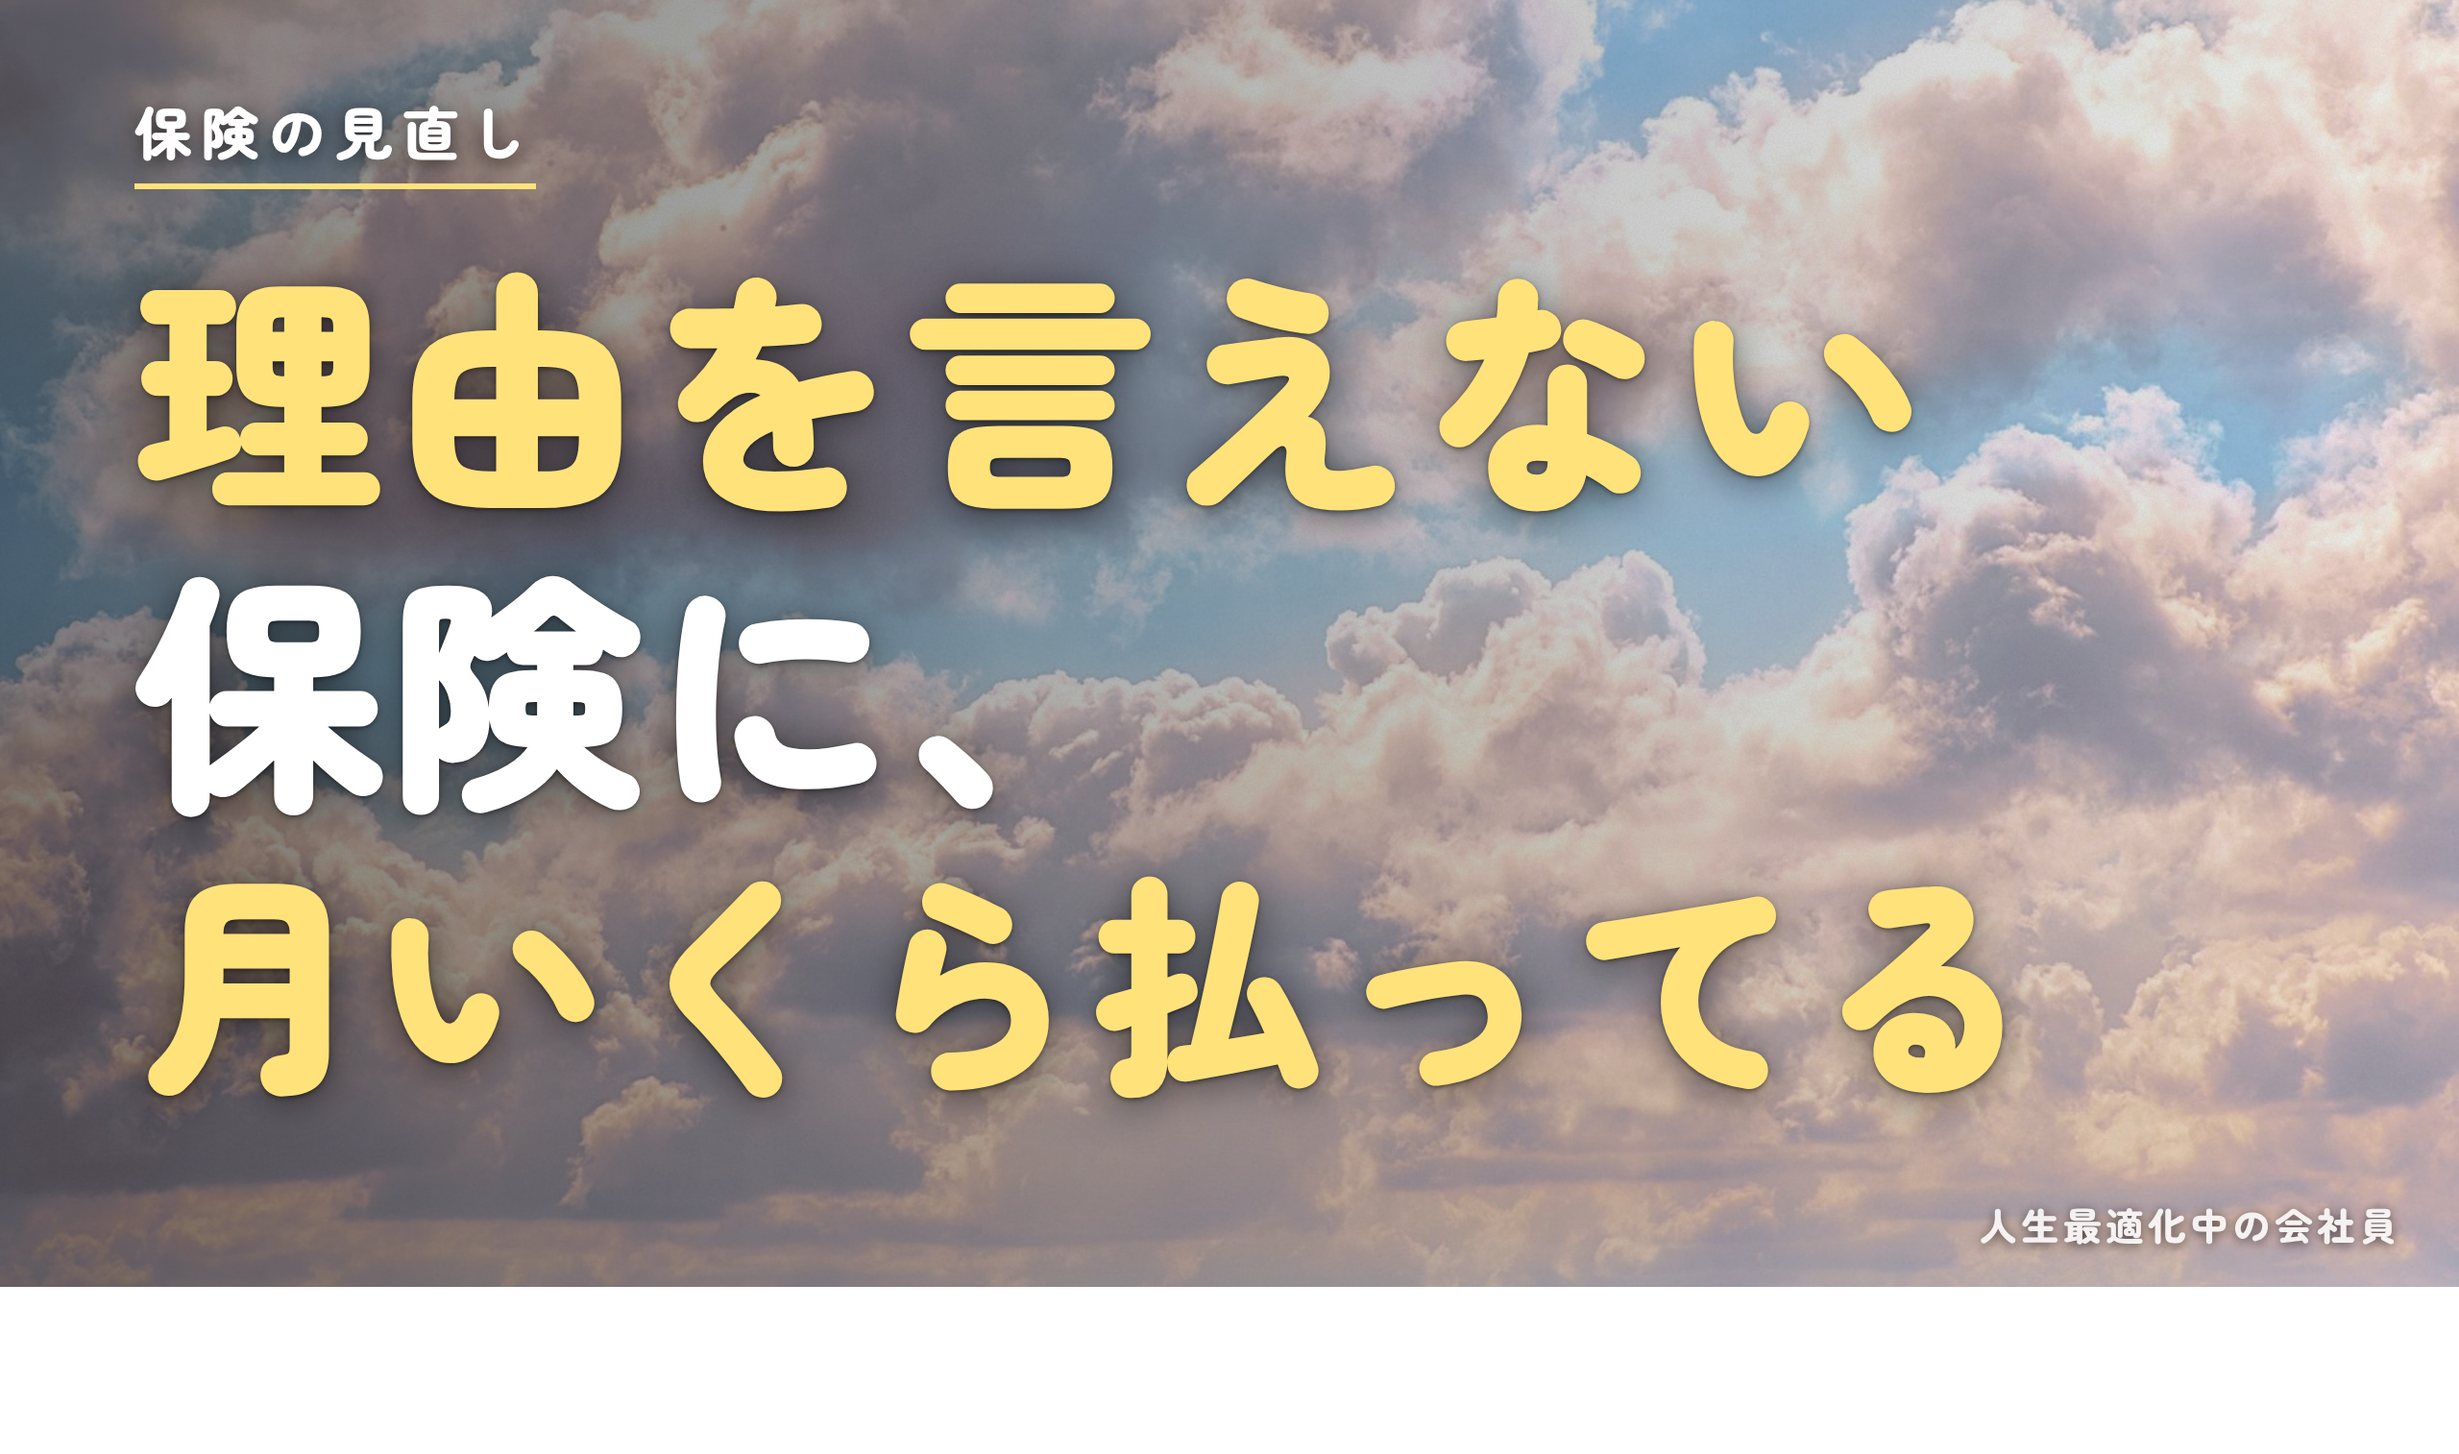
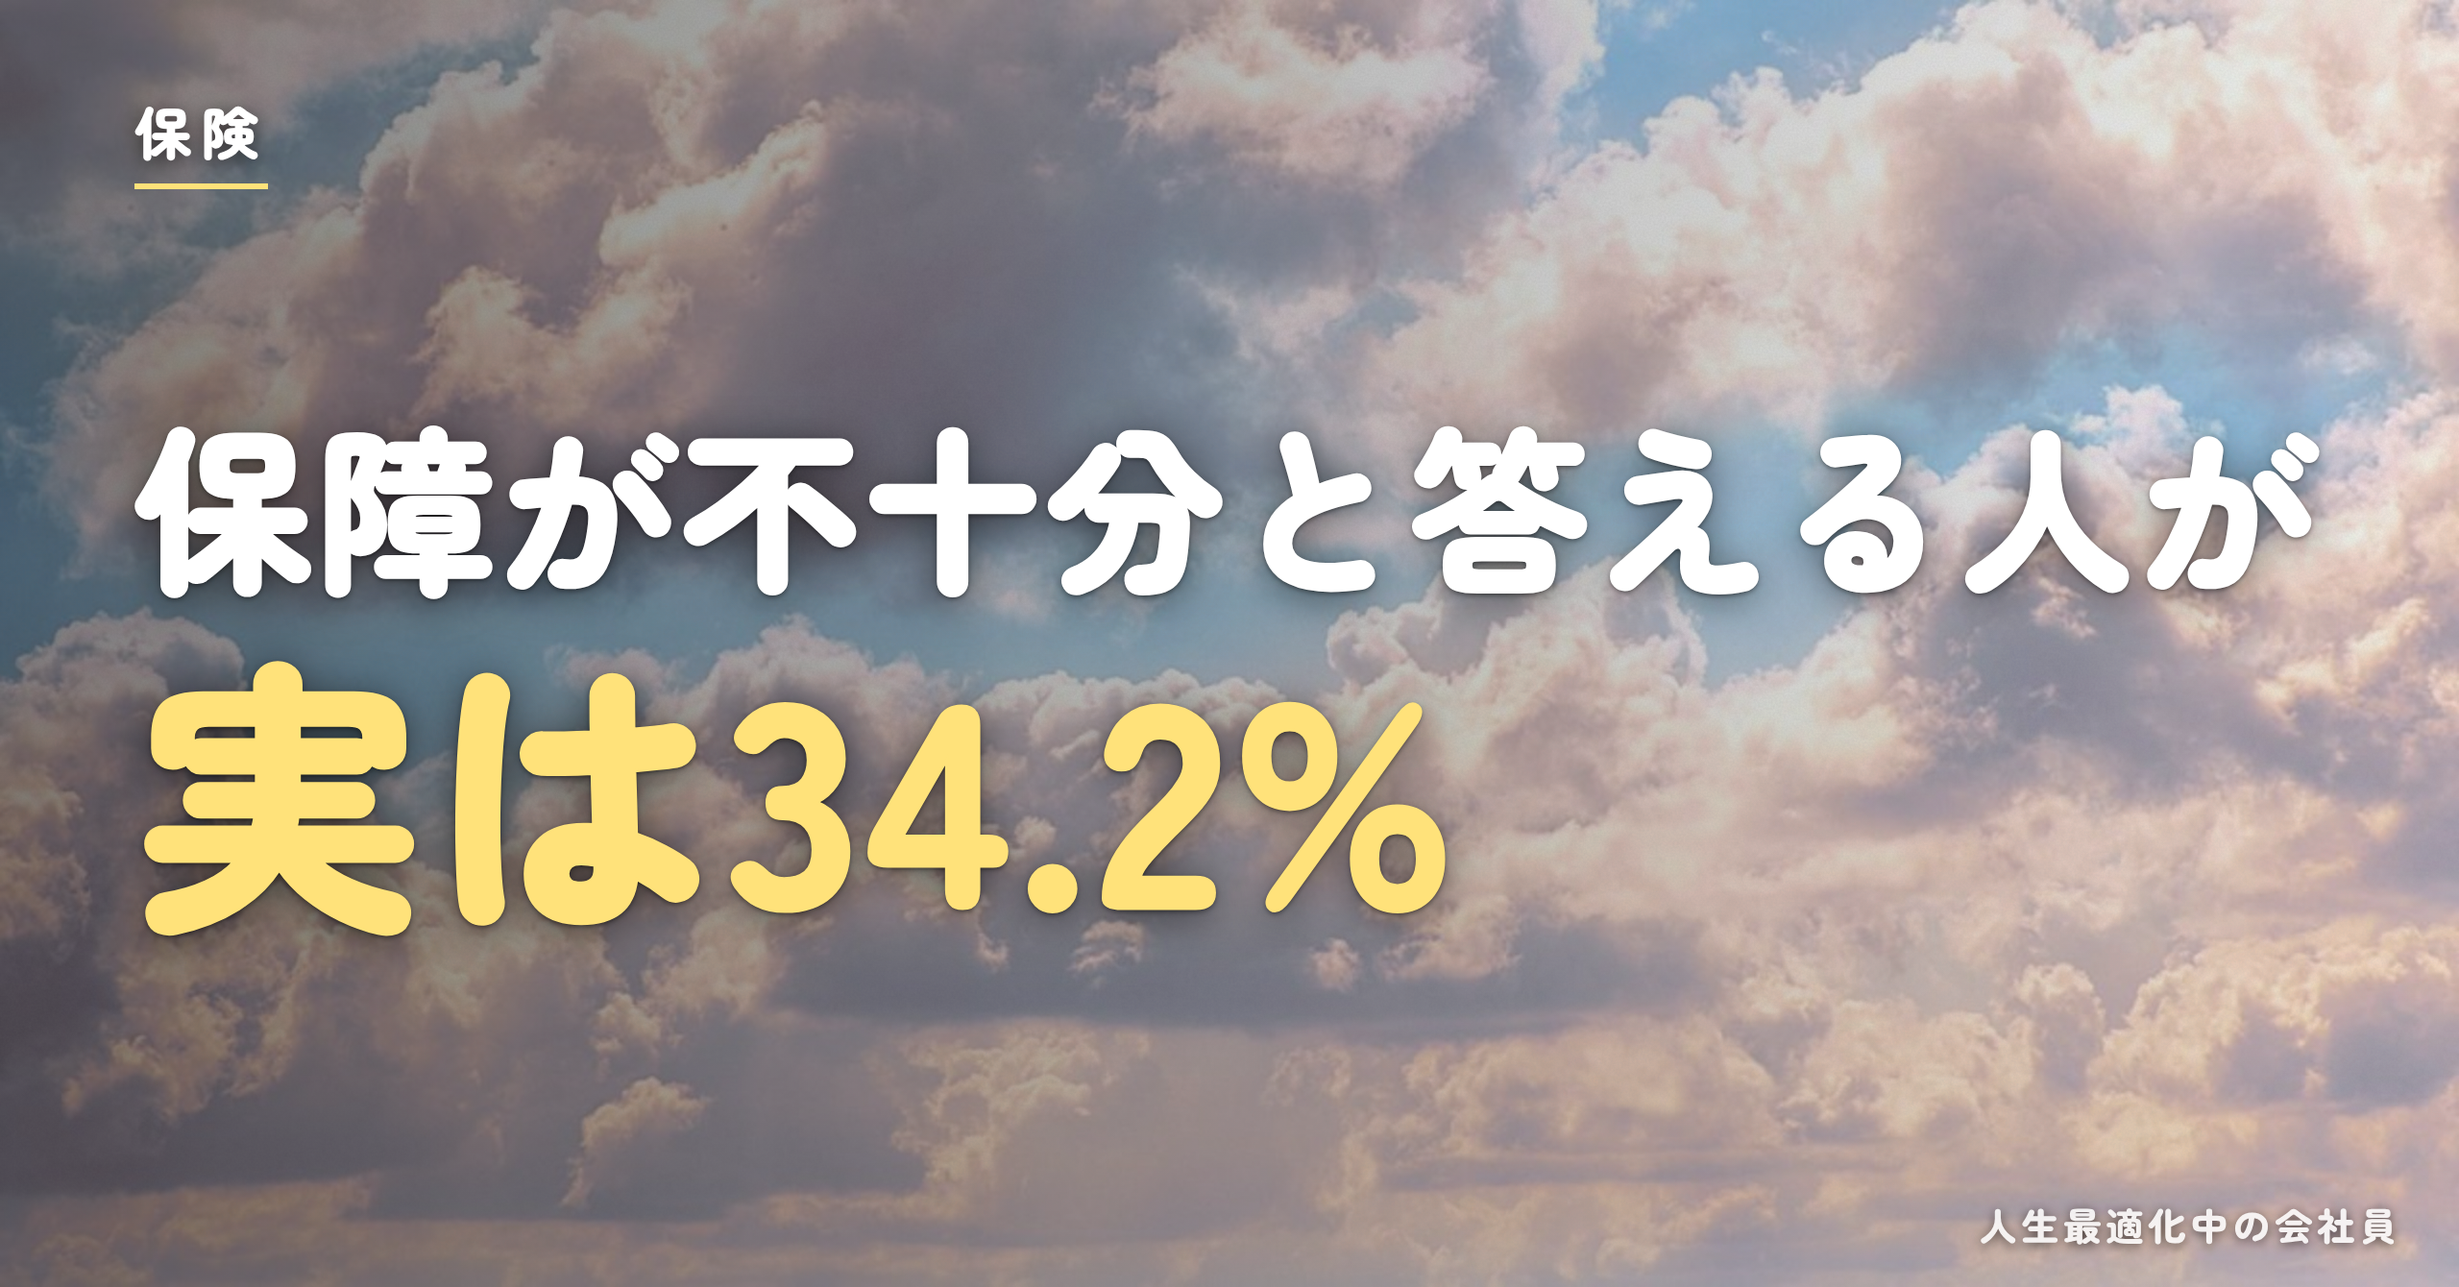
11-13_001: retitle with verified 34.2% stat; new cover and fig1
Claude-Session: https://claude.ai/code/session_019jxzMkHZEL8EPC28xkVZW1

diff --git a/runs/2026-11-13_001/05_revised.md b/runs/2026-11-13_001/05_revised.md
@@ -1,8 +1,16 @@
-# 理由を言えない保険に、月いくら払ってる
+# いま入っている保険、保障が不十分と答える人が実は34.2%
 
 【画像:cover.png】
 
 こんにちは、人生最適化中の会社員です。今日は、毎月払っている保険の「中身」を、一緒に見ていきます。
+
+まず、題の数字の話からします。生命保険文化センターの「2024(令和6)年度 生命保険に関する全国実態調査」(全国4,000世帯)で、「いま入っている保障内容で、将来の生活設計に十分か」を尋ねた設問があります。「不十分」と答えた人は、「やや不十分」を含めて34.2%でした。前回(2021年)は31.5%で、2.7ポイント増えています。
+
+ただし、条件があります。これは民間の団体の調査で、公的機関の調査ではありません。複数回答ではなく、ひとつだけ選ぶ設問の結果です。「十分」と「ほぼ十分」を合わせると53.2%で、こちらのほうが多数派です。「不明」(はっきり答えなかった人)も12.6%います。この数字から、保険の「理由」が言えない人の割合が分かるわけではありません。
+
+【画像:fig1.png】
+
+とはいえ、3人に1人ほどが「足りないかも」と感じている、というのは気になる数字です。足りないのか、足りているのか、重なっていないのか。それは、いまの契約の中身を見ないと分かりません。
 
 ## 書類は毎年出すのに、中身は見ない
 
@@ -16,7 +24,7 @@
 
 毎月、口座から静かに出ていくお金なので、気にしないままになりやすいものです。
 
-仮の例を出します。理由を言えない保険に、月5,000円を払い続けたとします。1年で6万円、10年で60万円です。人によって金額は違いますが、「なんとなく」で払うお金は、思ったより大きくなります。手元に証明書がある今のうちに、3分だけ中身を見てみましょう。
+仮の例を出します。入った目的をはっきり言えない保険に、月5,000円を払い続けたとします。1年で6万円、10年で60万円です。人によって金額は違いますが、「なんとなく」で払うお金は、思ったより大きくなります。手元に証明書がある今のうちに、3分だけ中身を見てみましょう。
 
 ## 結論:新しい保険を探す前に、いまの契約を3つ確かめる
 
@@ -36,15 +44,13 @@
 ・保険期間と払込期間の欄(いつまで続くか、いつまで払うか)
 ・保険料の欄(いくら払っているか)
 
-【画像:fig1.png】
-
-## 失敗パターン1:入った理由を忘れている
+## 失敗パターン1:何のために入ったかを、一言で言えない
 
 入ったときは、誰かに勧められた、職場で案内された、家族が入っていたから、など、理由があったはずです。数年たつと、なんとなく入っているだけ、という人もいると思います。
 
-理由を忘れると、いまの自分に必要な保障なのか、判断できなくなります。仕事や住まい、家族の状況が変われば、必要な保障も変わりえます。入ったときの理由が分かれば、「いまもその理由は続いているか」を考えられます。
+目的を忘れると、いまの自分に必要な保障なのか、判断できなくなります。仕事や住まい、家族の状況が変われば、必要な保障も変わりえます。入ったときの理由が分かれば、「いまもその理由は続いているか」を考えられます。
 
-仮の例です。理由を言えない保険に月5,000円なら、10年で60万円です。もし「いまは要らない」と分かれば、この分を別のことに使えます。
+仮の例です。目的をはっきり言えない保険に月5,000円なら、10年で60万円です。もし「いまは要らない」と分かれば、この分を別のことに使えます。
 
 やることは簡単です。保険の名前の横に、「何が心配で入ったか」を一行だけ書く。思い出せないものには、印をつけておきます。
 
@@ -92,6 +98,7 @@
 
 ## まとめ
 
+・保障が「不十分」と答えた人は34.2%(生命保険文化センター2024年度調査、前回2021年は31.5%)。民間の調査で、全国4,000世帯、ひとつだけ選ぶ設問
 ・先に確かめるのは、新しい保険ではなく、いまの契約の中身
 ・3つの確認は、入った理由・重なり・払う期間と更新
 ・仮の例:月5,000円なら、1年で6万円、10年で60万円。金額は人によって違う
@@ -106,20 +113,35 @@
 
 【リンク任意:保険見直し相談系】
 
+## 図の指示
+- cover:題の文言をそのまま使う(「いま入っている保険、保障が不十分と答える人が実は34.2%」)。34.2%を赤字の数字で強調する。アイコンは shield(保険)。
+- fig1:棒グラフ。題は「いま入っている保障内容で十分か」。値は、十分18.7%・ほぼ十分34.5%・やや不十分24.8%・不十分9.4%・不明12.6%(2024年度、全国4,000世帯、ひとつだけ選ぶ設問)。「やや不十分」と「不十分」の合計34.2%(前回2021年31.5%)を補足に書く。注記に「生命保険文化センター 2024(令和6)年度 生命保険に関する全国実態調査(民間の調査)」と書く。
+- fig2:既存の計算図(保険の確認リスト。runs/2026-11-13_001/figures.json の fig2)をそのまま維持する。
+
 ## 情報源
+- https://www.jili.or.jp/files/research/zenkokujittai/pdf/r6/2024sokuhou.pdf (公益財団法人 生命保険文化センター「2024(令和6)年度 生命保険に関する全国実態調査」速報版。原典PDF、第II部 意識編 図表Ⅱ-1。民間の調査。2026-11-13取得)
 - https://www.nta.go.jp/taxes/shiraberu/taxanswer/shotoku/1140.htm (国税庁 タックスアンサー No.1140 生命保険料控除。令和8年4月1日現在法令等。2026-11-12確認)
 
 ## 修正履歴
 - 問題1: 冒頭のフック直後に「月5,000円なら年6万円・10年で60万円」の仮の例を入れ、失敗パターン1〜3にも仮の例の単純計算を1つずつ追加(1=月5,000円で10年60万円、2=月3,000円で10年36万円、3=月2,000円で5年12万円)。すべて「仮の例」「人によって違う」と明記。まとめにも反映。証券の見る場所(保障の名前・保険期間と払込期間・保険料の欄)の案内も追加(商品名なし)。
-- 問題2: 税率・住民税の一次情報はリサーチにないため(b)は見送り、(a)を採用。「控除4万円=4万円戻る、ではない」を明記し、見出しを「控除の上限はいくら?」に変更(「?」は見出しのみ。気になる場合は「控除の上限は、いくら?」でなく言い切りに変更可)。まとめも「戻る税金の額は人によって違う」に合わせた。
+- 問題2: 税率・住民税の一次情報はリサーチにないため(b)は見送り、(a)を採用。「控除4万円=4万円戻る、ではない」を明記し、見出しを「控除の上限はいくら?」に変更(「?」は見出しのみ。気になる場合は言い切りに変更可)。まとめも「戻る税金の額は人によって違う」に合わせた。
 - 問題3: 「11月は配られる時期」「ハガキや書類」「控除証明書が届く」の言い切りをやめ、「年末が近づくと〜書く人もいると思います」の読者の場面に変更。時期の断定なし。
 - 問題4: 「解約しない」「戻るお金が少ない」の箇条書きを削除し、「条件は契約ごとに違うので、決める前に約款・重要事項説明書・窓口で確認」の1文に集約。
 - 問題5: 金融庁の監督指針(2021年の案)の文と、情報源[S3]を削除。
-- 問題6: 「僕の推測」「(これも推測です)」の括弧書きを削除し、「〜見るほうが、慌てて決めずにすみます」「〜にしやすい時期です」に変更。「〜と考えられます」も除去。推測の扱いは執筆メモ側の記録に委ねる(下記)。
+- 問題6: 「僕の推測」「(これも推測です)」の括弧書きを削除し、「〜見るほうが、慌てて決めずにすみます」「〜にしやすい時期です」に変更。「〜と考えられます」も除去。
 - 問題7: 「公的な数字は確認できませんでした」の文を削除(仮の例を入れたため不要)。
-- 問題8: タイトルを「理由を言えない保険に、月いくら払ってる」(「?」なし、20字)に変更。他の候補(持ち主が選べるように): 「保険の証明書、出す前に「入った理由」を一言メモ」/「保険の「なんとなく」、10年で60万円になることも」(仮の例を題にするため、本文の仮の例と合わせる場合のみ)。予備案は plan 側(00_plan.md)に残っており、差し替えが必要なら持ち主が選ぶ。
+- 問題8: タイトルを変更(下の今回の修正で、さらに差し替え)。
 - 問題9: 「数年たつと、「なんとなく入っている」状態になります」を「なんとなく入っているだけ、という人もいると思います」に変更。
 - 問題10: 控除の注意の3文を、文末が続かないようにつなぎ直し、「令和8年分から」を「今年の分から」に変更(時点は出典の行に残した)。
 - 問題11: 「急がないでください」「確認してください」を「急いで決めなくて大丈夫です」「一緒に確認しておきましょう/おきたいところです」に変更。
-- 問題12: 「## 執筆メモ」の節を削除(内部用。事実・推測・体験の区別は、持ち主向けには 00_plan.md と 01_research.md に残っているものを参照。author_notes.md の更新は本実行では行っていない。「あるある」の導入3項目と各失敗パターンの冒頭は、Claudeの提案(未確認)として記録が必要)。情報源から[S2][S3]を外した(本文で使っていないため)。
-- 校正: 「ちゃんと」「一緒に」などの表記を統一。「〜ます」の連続を整理。「証明書」の呼び方を「証明書」に統一(「控除証明書」→「証明書」)。目的説明の前置き(「今回は〜記事です」)を、読者の行動で締める文に変更。「ここで言いたいのは〜ではありません」の構文を1文に整理。「〜と考えられます」を削除。
+- 問題12: 「## 執筆メモ」の節を削除(内部用)。情報源から[S2][S3]を外した(本文で使っていないため)。「あるある」の導入3項目と各失敗パターンの冒頭は、Claudeの提案(未確認)として記録が必要。
+- 今回の修正(2026-11-15、持ち主の指示と編集長の決定):
+  - 題を疑問形でない「いま入っている保険、保障が不十分と答える人が実は34.2%」(27字)に変更。数字は編集長が原典PDFで確認した01e_jili_verified.mdの値だけを使用(不十分+やや不十分=34.2%、前回2021年31.5%)。
+  - 本文の冒頭に、題の数字の説明と調査の条件(民間の調査・2024年度・全国4,000世帯・ひとつだけ選ぶ設問)を、短く正直に追加。「十分+ほぼ十分=53.2%が多数派」も併記し、「不明12.6%」は「はっきり答えなかった人」と書いた。
+  - 「理由を言えない人が◯%」は、その設問が無いので、題にも本文にも使っていない(冒頭で、この数字から理由が言えない人の割合は分からない、と明記)。
+  - 見出し「失敗パターン1:入った理由を忘れている」を「何のために入ったかを、一言で言えない」に変更。仮の例の「理由を言えない保険」は「入った目的をはっきり言えない保険」に言い換え。
+  - まとめに34.2%の1行を追加。fig1の位置を、結論の節から冒頭(調査の数字の直後)に移動し、中身を棒グラフにした。fig2は既存の位置のまま維持。
+  - 「## 図の指示」を1か所追加(cover・fig1・fig2)。表(|)は無し。AIが調べた経緯は書いていない。一人称は「僕」を使う箇所なし(体験は創作していない)。
+  - 情報源に、生命保険文化センターの原典PDF(取得日2026-11-13)を追加。
+  - 注意:figures.json の cover と fig1 は、この指示に合わせて別途更新が必要(この作業では05_revised.mdだけを直した)。
+- 校正: 「ちゃんと」「一緒に」などの表記を統一。「証明書」の呼び方を統一。「〜ます」の連続を整理。「34.2%」「2.7ポイント」など数字の表記をそろえた。
